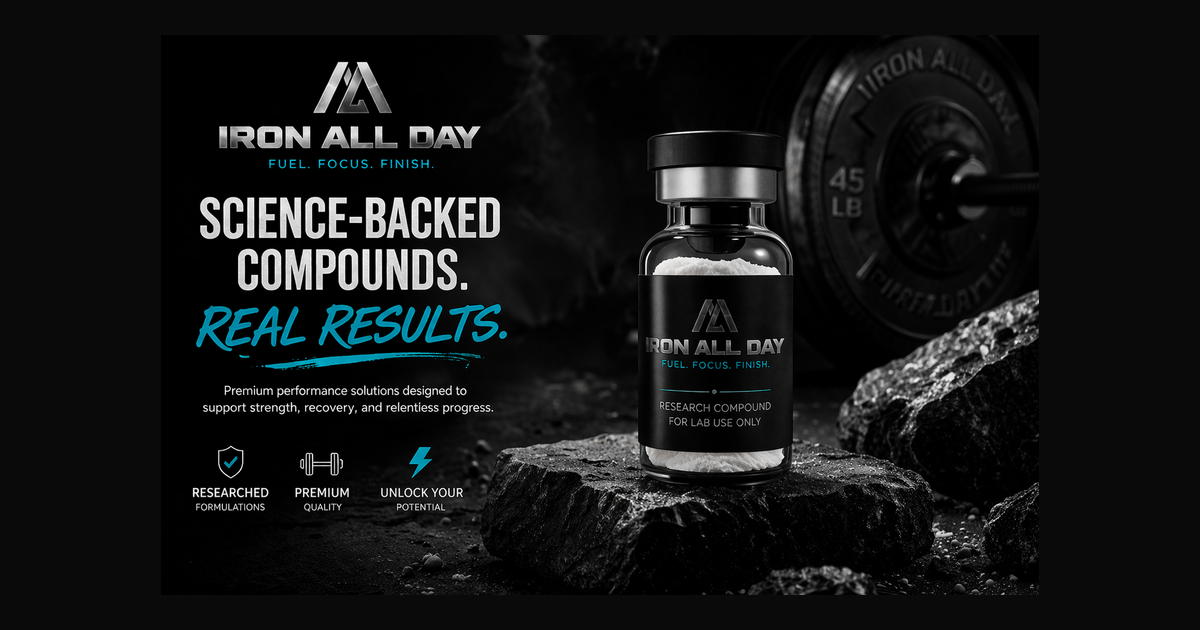
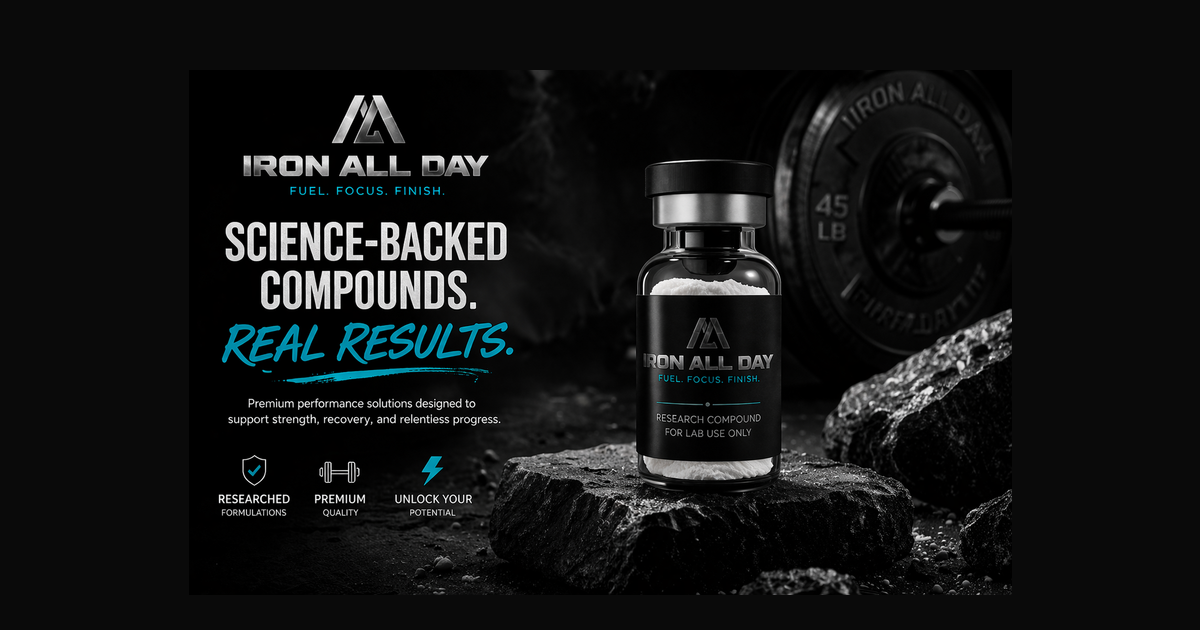
og-card v5: 70px top safe zone for X crop

diff --git a/app/layout.tsx b/app/layout.tsx
@@ -32,7 +32,7 @@ export const metadata: Metadata = {
     siteName: "Iron All Day",
     images: [
       {
-        url: "https://ironallday.com/images/og-card.png?v=4",
+        url: "https://ironallday.com/images/og-card.png?v=5",
         width: 1200,
         height: 630,
         alt: "Iron All Day — Science-Backed Compounds. Real Results.",
@@ -45,7 +45,7 @@ export const metadata: Metadata = {
     title: "Iron All Day — Fuel. Focus. Finish.",
     description:
       "Science-backed compounds. Real results. Premium performance solutions for strength, recovery, and relentless progress.",
-    images: ["https://ironallday.com/images/og-card.png?v=4"],
+    images: ["https://ironallday.com/images/og-card.png?v=5"],
   },
   icons: {
     icon: [
